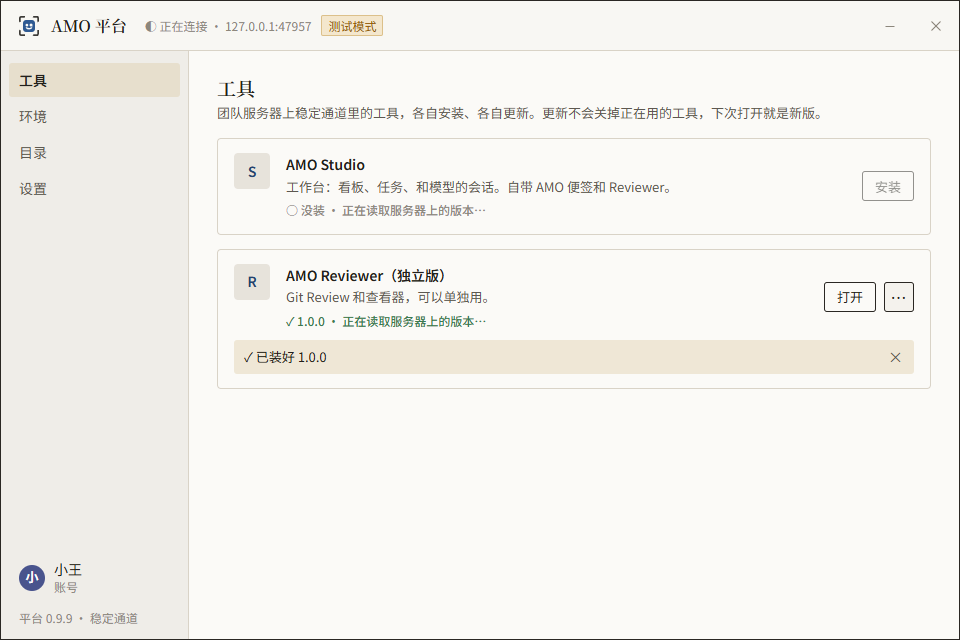
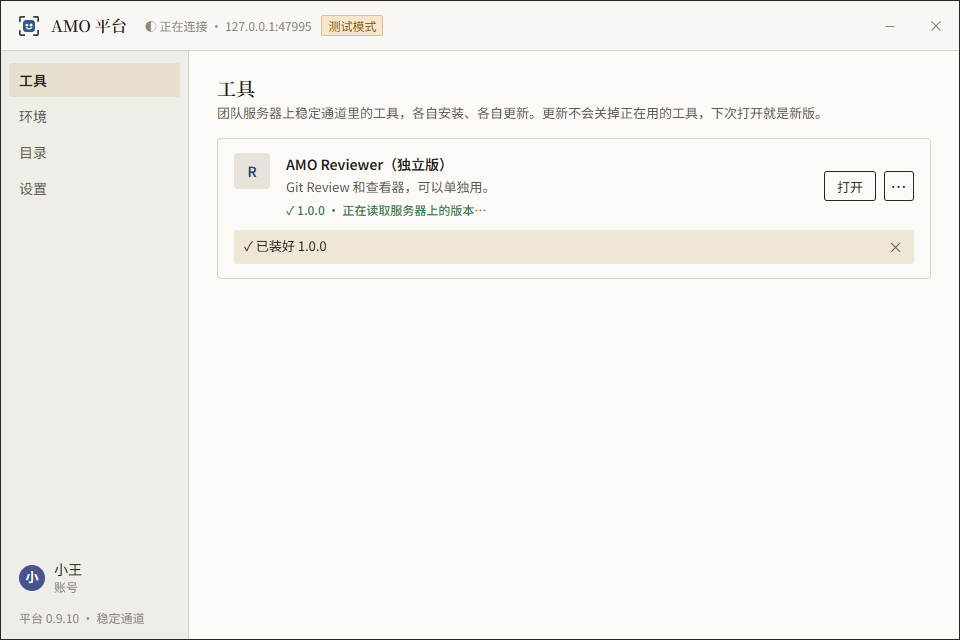
feat(studio): agents use the canvas only when asked, and then fully as before; 平台 0.9.11 refreshes in the background — Studio 0.9.13
- Studio: no prompt makes an agent reach for the canvas by itself (「要点多的审阅放到画布上」 gone from the AMO instructions, canvas_items_post no longer "instead of one long reply"); asked (「主控用画布展开任务」, 「放到画布上审阅」) it lays the work out as amo_guide's lead and canvas sections say — groups, dependencies, colours, descriptions, or review items with remarks and questions. Role cards: 主控 arranges the canvas when asked, 专题会话 tidies it when asked.
- 平台 0.9.11 (published to the test channel): with an answer in hand refresh() asks the server in the background — no 正在连接, 更新到 / 安装 stay usable, offline only when it fails; the window coming forward asks the server only after FOCUS_RECHECK_MS (60 s), what runs on the machine every time. e2e 正在连接 rewritten (P37 after a logout and login); a unit test. The platform e2e 「a second tool downloads only its own files」 fails at uninstall on the code before this too: left for later.
- CHANGELOGs, HANDOFF.

diff --git a/studio/packages/host/src/features/guide/guide.ts b/studio/packages/host/src/features/guide/guide.ts
@@ -29,13 +29,15 @@ const GUIDE: Record<GuideSection, string> = {
 - topic_doc_write：主控（或专题会话）写专题文档：新建（不带 docId）或改写（带 docId）。很专门的文档放在项目里，人会把它加到书签，专题文档里写上它的路径。`,
   canvas: `# 画布
 
+人让你用画布时（「用画布展开任务」「放到画布上审阅」……）才动它，动就做完整：分组、放卡片、依赖、颜色，或者审阅条目、说明和提问。人没说时不动；为了了解专题读它（canvas_read）随时可以。
+
 - canvas_read：专题画布的结构（没有坐标）：分组和里面的任务、引用卡片（别的专题的任务）、便签、未分组的、还没放上去的任务、依赖。带说明和颜色。
 - canvas_group_create：建一个分组（可绑定项目）。canvas_place：把任务放进分组或拿出来。canvas_depend：连依赖（from 做完 to 才开始，不能成环）。这三个每次要人批准。
 - canvas_color：给任务卡、引用卡、便签或分组标颜色（red / yellow / green / blue，none 取消）。颜色是什么意思由人定（状态、优先级……），不要随意改人标的颜色。
 
-## 画布审阅（要点多的审阅、调查报告）
+## 画布审阅（人让你把审阅或报告放到画布上时）
 
-一份有很多要点的报告（一批提交的审阅、一个复杂方案的梳理）不要只写在一条长回复里：人会在长对话里丢掉焦点。放到专题画布上，人一条条确认，你们围绕卡片交流。
+人没说时，审阅和报告照常写在回复里。
 
 1. canvas_items_post：一次铺多条**审阅条目**（#1、#2…），一份审阅一个分组（group 写分组标题）。每条：title 一行，body 写发现了什么、为什么重要、建议怎么做（Markdown），refs 写涉及的文件、提交。回复里只说一句「N 条已放到画布」和最要紧的一两点。
 2. canvas_callout：在卡片上**说明**（kind note：高亮这张卡，写要注意什么）或**提问**（kind question：等人回答；有几个现成答案时给 options，背景放 detail，问题复杂、要在对话里讲清楚时带 deep: true）。target 写 #n、任务 id（它的卡片）或 canvas_read 里的 id。文字一两句。
@@ -43,7 +45,7 @@ const GUIDE: Record<GuideSection, string> = {
 4. 人也会自己改状态，或者「就这条展开聊」：为一条单独开一个会话。在那个会话里聊出结论后，用 canvas_item_update 写回这一条。
 5. canvas_read 会列出条目（状态、结论）和还没收起的说明、问题、人的回答。
 
-执行任务的会话也可以用 canvas_callout 在**自己的任务卡片**上提问，人回答后同样回到你的对话。这些都不用人批准。`,
+人让执行任务的会话在**自己的任务卡片**上提问时，也用 canvas_callout，人回答后同样回到你的对话。这些都不用人批准。`,
   collab: `# 协作
 
 - mailbox_send：给一个会话、任务或专题留言；mailbox_read：读给你的留言。留言什么时候进对话由人决定。
@@ -56,7 +58,7 @@ const GUIDE: Record<GuideSection, string> = {
 
 1. 先读专题（topic_get、canvas_read、topic_docs），弄清目标。
 2. 把大的工作拆成平级的任务，每个任务在合适的项目里、有清楚的说明和能独立开工的第一句话：用 task_plan_propose 提案（每个任务可以用 model 和 effort 指定模型和思考强度，简单的活用便宜的型号或低强度）。人在画布上确认（可以改）后 Studio 才建任务、放上画布、连好依赖；结果作为留言回来（带新任务的 id）。
-3. 在画布上排好：分组、依赖、颜色；给每个任务写说明（task_describe）。
+3. 给每个任务写说明（task_describe）。人让你用画布展开时（大多会这样说），在画布上排好：按项目或阶段分组、连好依赖、需要时标颜色（canvas_group_create、canvas_place、canvas_depend、canvas_color）；人没说就不排。
 4. 把计划、约定、决定写进专题文档（topic_doc_write），别的任务的会话会读。
 5. 具体的活交给各任务的会话去做。要它们马上知道的（决定、计划改了、下一步）用 task_message 传话：人确认后（或任务设了不用确认）直接送进它的会话；不急的用 mailbox_send 留言。不要把重活都放进自己的子 agent 里——人只能和你对话，内容要多出一份。
 6. 分支和合并：人说开才开、说合才合。`,

diff --git a/studio/e2e/platform/platform.spec.ts b/studio/e2e/platform/platform.spec.ts
@@ -70,6 +70,7 @@ const result = (page: Page, id: string) => page.getByTestId(`tool-${id}-result`)
 const more = (page: Page, id: string) => row(page, id).getByRole("button", { name: "更多操作" });
 const menu = (page: Page, id: string) => row(page, id).getByRole("menu");
 const refresh = (page: Page) => page.evaluate(() => (window as unknown as { amoPlatform: { call(m: string, a: unknown[]): Promise<unknown> } }).amoPlatform.call("refresh", []));
+const call = (page: Page, method: string, args: unknown[] = []) => page.evaluate(([m, a]) => (window as unknown as { amoPlatform: { call(m: string, a: unknown[]): Promise<unknown> } }).amoPlatform.call(m, a), [method, args] as const);
 
 test("log in → install → a new version → update → 回滚 → 卸载; Studio waits for its data dir", async () => {
   const realHome = join(process.env.APPDATA ?? "", "AMO");
@@ -702,7 +703,7 @@ test("环境: what the tools run on, found where Studio looks; 去下载 opens t
   registry.close();
 });
 
-test("正在连接 (2026-10-30): the versions say they are being read, not the last answer; 安装 greyed with 正在连接服务器…; 打开 still works", async () => {
+test("正在连接 (2026-10-30): asked again with an answer in hand, in the background — nothing greys; only with nothing to show yet the versions say they are being read", async () => {
   const own = await startFakePlatformServer({ users: { 小王: "secret" }, gzip: true });
   try {
     own.publish("studio", "0.9.0", tool("studio", "0.9.0"), { name: "AMO Studio", exe: "run.cmd" });
@@ -715,17 +716,28 @@ test("正在连接 (2026-10-30): the versions say they are being read, not the l
     await form.getByRole("button", { name: "登录" }).click();
     await row(page, "reviewer").getByRole("button", { name: "安装" }).click();
     await expect(status(page, "reviewer")).toHaveText("✓ 1.0.0 · 已是最新");
+    const install = row(page, "studio").getByRole("button", { name: "安装" });
 
-    // A new version on the server, and the platform asks again while the server is slow to answer.
+    // A new version on the server, asked again while the server is slow to answer (as when the window comes forward):
+    // the last answer stays and the buttons stay usable until the new one comes (the user, 2026-10-30).
     own.publish("reviewer", "1.1.0", tool("reviewer", "1.1.0"), { name: "AMO Reviewer", exe: "run.cmd" });
-    own.delayChannels(12_000);
+    own.delayChannels(8_000);
     const asking = refresh(page);
+    await page.waitForTimeout(1500);
+    await expect(page.getByTestId("pf-connection")).not.toContainText("正在连接");
+    await expect(status(page, "reviewer")).toHaveText("✓ 1.0.0 · 已是最新");
+    await expect(install).toBeEnabled();
+    await expect(status(page, "reviewer")).toHaveText("! 1.0.0 · 有新版 1.1.0", { timeout: 30_000 });
+    await asking;
+
+    // Nothing to show yet (logged out and in again while the server is slow): 正在连接, the versions being read.
+    await call(page, "logout");
+    own.delayChannels(12_000);
+    const login = call(page, "login", [own.url, "小王", "secret"]);
     await expect(page.getByTestId("pf-connection")).toContainText("正在连接");
     await expect(status(page, "reviewer")).toHaveText("✓ 1.0.0 · 正在读取服务器上的版本…");
-    await expect(status(page, "studio")).toHaveText("○ 没装 · 正在读取服务器上的版本…");
-    const install = row(page, "studio").getByRole("button", { name: "安装" });
-    await expect(install).toBeDisabled();
-    await expect(install).toHaveAttribute("title", "正在连接服务器…");
+    // What is not installed comes with the server's answer.
+    await expect(row(page, "studio")).toHaveCount(0);
     // This machine's own: not held up by the server.
     await expect(row(page, "reviewer").getByRole("button", { name: "打开" })).toBeEnabled();
     await screenshot(app, "platform", "P37-connecting", page);
@@ -733,7 +745,7 @@ test("正在连接 (2026-10-30): the versions say they are being read, not the l
     await expect(status(page, "reviewer")).toHaveText("! 1.0.0 · 有新版 1.1.0", { timeout: 30_000 });
     await expect(install).toBeEnabled();
     await expect(install).not.toHaveAttribute("title", /.+/);
-    await asking;
+    await login;
   } finally {
     await own.close();
   }

diff --git a/studio/packages/platform/src/platform.ts b/studio/packages/platform/src/platform.ts
@@ -70,6 +70,8 @@ export interface PlatformOptions {
 
 /** How long 重启 Studio waits for the old Studio and its Host to end (closing sessions and app-servers takes a moment). */
 const STUDIO_STOP_WAIT_MS = 60_000;
+/** Coming forward asks the server again only after this long (what runs on the machine is asked every time). */
+export const FOCUS_RECHECK_MS = 60_000;
 
 const message = (err: unknown) => (err instanceof Error ? err.message : String(err));
 
@@ -80,6 +82,8 @@ export class Platform implements PlatformCalls {
   private channels: Channels | null = null;
   private readonly manifests = new Map<string, Manifest>();
   private connection: PlatformView["connection"] = { state: "idle", message: null };
+  /** When the server last answered the channels (0: not since the login or the start). */
+  private lastServerCheck = 0;
   private running: Record<string, boolean> = {};
   private studio: StudioHealth = { hostUp: false, sessions: null, version: null };
   /** 重启 Studio is under way. */
@@ -413,8 +417,13 @@ export class Platform implements PlatformCalls {
     return Object.fromEntries(ids.map((id, i) => [id, inUse[i] === true]));
   }
 
-  /** Asks the server for the channels and their manifests, and the machine which tools run. */
-  async refresh(): Promise<void> {
+  /**
+   * Asks the server for the channels and their manifests, and the machine which tools run. 2026-10-30 (the user: every
+   * time the window came forward it read 正在连接 and 更新到 went grey): with an answer already in hand it asks again in
+   * the background — the page keeps the last answer, its buttons usable, until a new one comes or the server fails —
+   * and `focus` (the window coming forward) asks the server only when the last answer is older than FOCUS_RECHECK_MS.
+   */
+  async refresh(opts: { focus?: boolean } = {}): Promise<void> {
     const local = async () => {
       const ids = this.toolIds();
       const [running, studio] = await Promise.all([this.checkRunning(ids), studioHealth(readSettings(this.options.env).studioDataDir, this.options.fetch)]);
@@ -427,7 +436,13 @@ export class Platform implements PlatformCalls {
       this.changed();
       return;
     }
-    this.connection = { state: "checking", message: null };
+    if (opts.focus === true && this.channels && this.connection.state === "online" && Date.now() - this.lastServerCheck < FOCUS_RECHECK_MS) {
+      await local();
+      this.changed();
+      return;
+    }
+    // 正在连接 only while there is nothing to show yet (the first time, after a login, or after it failed).
+    if (!this.channels || this.connection.state !== "online") this.connection = { state: "checking", message: null };
     // The profile (账号, and the face at the foot of the pages) alongside; its failure does not stop the tools.
     const profile = this.account ? this.readProfile(this.account) : null;
     this.changed();
@@ -448,6 +463,7 @@ export class Platform implements PlatformCalls {
       if (this.client !== client) return;
       this.channels = channels;
       this.connection = { state: "online", message: null };
+      this.lastServerCheck = Date.now();
     } catch (err) {
       if (this.client !== client) return;
       const text = this.failed(err);

diff --git a/studio/packages/host/src/mcp/tools.ts b/studio/packages/host/src/mcp/tools.ts
@@ -23,7 +23,9 @@ export const AMO_MCP_INSTRUCTIONS = [
   // 2026-10-22: an agent's xargs -P 12 burst and a grep -r over a big checkout made the person's desktop lag.
   "The person works on this same machine while you run, often with several agents and big game projects open, so keep your commands light: do not fan out many processes at once (xargs -P, parallel loops, more than a few background jobs), search with rg or git grep limited to the folders that matter instead of grep -r over a whole checkout or drive, and cap test runners' workers (for example vitest --maxWorkers=4, dotnet test -m:2) unless the person asks for speed.",
   "Your role card (who you are, your task, topic, its 主控 and documents) is given to you when the session starts; when you do not have it, or need the current one, call amo_whoami. amo_guide explains each part (tasks, topics, canvas, collab, lead, files). Writes that touch other tasks or the canvas's structure ask the person first; your own task's notes, descriptions and colour marks do not.",
-  "A report or review with many points (a batch of commits, an involved design) goes on your topic's canvas as review items (canvas_items_post), with remarks and questions pinned to the cards (canvas_callout), rather than in one long reply the person loses track of; amo_guide section canvas explains the flow.",
+  // 2026-10-30 (the user): agents do not reach for the canvas on their own; once the person asks (「用画布展开任务」,
+  // 「放到画布上审阅」) they do it fully, as before. Reading it stays.
+  "Use your topic's canvas when the person asks for it — e.g. to lay the work out on the canvas, or to put a review there — and then do it fully, in the way amo_guide describes (sections lead and canvas): split the work into tasks, arrange groups, dependencies and colours, describe each task; or lay review items out and pin remarks and questions. Without such a request leave the canvas as it is (reading it with canvas_read to understand the topic is fine), and reports and reviews go in your reply as usual.",
   "When the person wants to review a file or saved changes, use review_open: mode=file for its current content (optional line/endLine), mode=changes for its Git diff (optional base, commit or range). It opens the person's reviewer and defaults comments back to your session; it does not perform or approve a review. Save edits before reopening to show the latest content.",
   // 会话里用中转 (2026-10-30, plans/relay-in-sessions.md).
   "When the work needs someone on the team other than the person you work for — a programmer to confirm an implementation, an interface or the work it takes, or to check a plan — ask them with team_ask (AMO 中转; team_members lists who does what). It usually waits for the person's OK in Studio (the answer says), goes as the person marked as their AI's, and the reply comes back into this conversation by itself: end your turn after it instead of going on in the unconfirmed direction; then team_followup to ask again, team_done once settled. (task_message is different: it talks to another task's session inside Studio.)",

diff --git a/studio/packages/host/src/features/guide/role.ts b/studio/packages/host/src/features/guide/role.ts
@@ -52,10 +52,10 @@ const ROLE_NAME: Record<AmoRole, string> = { lead: "主控", worker: "执行", t
 
 const ROLE_DUTY: Record<AmoRole, string> = {
   lead:
-    "你是主控：负责协调这个专题（不在专题里时是这个项目）的任务。把大的工作拆成平级的任务、在画布上排好关系（canvas_*），给任务写说明（task_describe），把计划和决定写进专题文档（topic_doc_write）。具体的活交给各个任务的会话去做，让人可以直接和每个任务对话，要它们马上知道的用 task_message 传话；不要把重活都放进自己的子 agent 里。Studio 不替你建分支、不合并，人说开才开、说合才合。",
+    "你是主控：负责协调这个专题（不在专题里时是这个项目）的任务。把大的工作拆成平级的任务，给任务写说明（task_describe）；人让你用画布展开时，照 amo_guide 的 lead 一节在画布上排好分组和依赖（canvas_*），人没说就不动画布，把计划和决定写进专题文档（topic_doc_write）。具体的活交给各个任务的会话去做，让人可以直接和每个任务对话，要它们马上知道的用 task_message 传话；不要把重活都放进自己的子 agent 里。Studio 不替你建分支、不合并，人说开才开、说合才合。",
   worker:
     "你是执行：专注做好自己的任务。平时不用主动记进度：人让你记时用 task_note_add，一段工作要交给别的会话或人接手时用 handoff_submit。需要主控或别的任务知道的事用 mailbox_send；需要人拍板用 decision_request；本任务里要并行做一部分、或换个干净的上下文，可以用 session_start 再开一个会话。不要去改别的任务的内容。",
-  topic: "你是专题会话：从专题的角度看全局、整理画布、回答人的问题，和主控一样可以写专题文档、给任务写说明、标画布颜色。",
+  topic: "你是专题会话：从专题的角度看全局、回答人的问题，和主控一样可以写专题文档、给任务写说明；人让你整理画布时再整理画布、标颜色。",
   fork: "你是某个会话的分支：在原会话的基础上试另一条路，原会话不受影响。身份和原任务相同。",
 };
 

diff --git a/studio/packages/platform/src/platform.test.ts b/studio/packages/platform/src/platform.test.ts
@@ -8,7 +8,7 @@ import { listenInStudioRange, removeTempDir, startFakePlatformServer, type FakeP
 import { PlatformClient } from "./client.js";
 import { planLaunch, type LaunchSpec } from "./launch.js";
 import { trayMenu } from "./tray.js";
-import { Platform, type PlatformOptions } from "./platform.js";
+import { FOCUS_RECHECK_MS, Platform, type PlatformOptions } from "./platform.js";
 import { channelFromArgs } from "./settings.js";
 import { sessionCount, stopStudio, studioHealth, studioRestart, waitForExit, type StudioStop } from "./system.js";
 
@@ -86,6 +86,28 @@ describe("Platform", () => {
     expect(launched[0]!.file).toMatch(/\\0\.9\.0\\AMO Studio\.exe$/);
     expect(launched[0]!.env.AMO_STUDIO_DATA_DIR).toBe(data);
     expect(launched[0]!.env.ELECTRON_RUN_AS_NODE).toBeUndefined();
+  });
+
+  it("asked again with an answer in hand: in the background (never 正在连接); coming forward asks the server only after a minute (2026-10-30)", async () => {
+    const { platform } = make();
+    await platform.init();
+    await platform.login(server.url, "小王", "secret");
+    const states: string[] = [];
+    platform.onChange((v) => states.push(v.connection.state));
+    const asked = () => server.requests.filter((r) => r.includes("/channels")).length;
+    const before = asked();
+    await platform.refresh();
+    expect(asked()).toBe(before + 1);
+    expect(states).not.toContain("checking");
+    // Coming forward right after: what runs is read again, the server is not asked.
+    await platform.refresh({ focus: true });
+    expect(asked()).toBe(before + 1);
+    expect(platform.view().connection.state).toBe("online");
+    // A minute on, it is.
+    (platform as unknown as { lastServerCheck: number }).lastServerCheck -= FOCUS_RECHECK_MS + 1;
+    await platform.refresh({ focus: true });
+    expect(asked()).toBe(before + 2);
+    expect(states).not.toContain("checking");
   });
 
   it("an update while the tool runs is installed all the same and says it takes effect next time", async () => {

diff --git a/studio/packages/host/src/features/canvasreview/mcp.ts b/studio/packages/host/src/features/canvasreview/mcp.ts
@@ -10,7 +10,7 @@ export function canvasReviewTools({ service, caller, ownTopic }: ToolContext): A
       name: "canvas_items_post",
       title: "画布铺审阅条目",
       description:
-        "Lay a review out on your topic's canvas as numbered item cards (#1, #2… continuing the canvas's numbers), instead of one long reply: each point a card the person can confirm, question or talk over on its own. group: an existing group (id or exact title) to add to, or the title of a new group (recommended: one group per review); omit to put them below everything. Each item: title (one line), body (Markdown: what you found, why it matters, what you suggest), refs (files, commits, links), status (todo by default; confirmed, discuss, parked, done). Studio lays them out. Then use canvas_callout to highlight or ask on the items.",
+        "When the person asks for a review on the canvas: lay it out on your topic's canvas as numbered item cards (#1, #2… continuing the canvas's numbers), each point a card the person can confirm, question or talk over on its own. group: an existing group (id or exact title) to add to, or the title of a new group (recommended: one group per review); omit to put them below everything. Each item: title (one line), body (Markdown: what you found, why it matters, what you suggest), refs (files, commits, links), status (todo by default; confirmed, discuss, parked, done). Studio lays them out. Then use canvas_callout to highlight or ask on the items.",
       inputSchema: {
         group: z.string().optional(),
         items: z.array(z.object({ title: z.string(), body: z.string().optional(), refs: z.array(z.string()).optional(), status: STATUS.optional() })),

diff --git a/studio/packages/platform/src/main.ts b/studio/packages/platform/src/main.ts
@@ -175,8 +175,8 @@ function createWindow(): BrowserWindow {
       w.webContents.toggleDevTools();
     }
   });
-  // Coming forward: what runs may have changed (a tool closed, Studio's sessions).
-  w.on("focus", () => void platform.refresh());
+  // Coming forward: what runs may have changed (a tool closed, Studio's sessions); the server only now and then.
+  w.on("focus", () => void platform.refresh({ focus: true }));
   // Studio's card (2026-10-29: its Host's state, and whether 重启 Studio can be clicked): asked again every 10 s while the
   // window is shown — only the Host's /api/health, not the server or Windows' process list.
   const studioTimer = setInterval(() => {

diff --git a/studio/HANDOFF.md b/studio/HANDOFF.md
@@ -47,6 +47,17 @@
 
 ## 最近的改动（新的在上面）
 
+**2026-10-30 · AI 不要求就不用画布（测试通道 Studio 0.9.13）**
+
+- 用户 10-30：人不要求时 AI 不用画布；人说了（「主控用画布展开任务」「放到画布上审阅」）就照以前一样做完整。改了：`AMO_MCP_INSTRUCTIONS` 删掉「要点多的报告放画布」，换成「人要求时用画布并做完整（见 amo_guide lead、canvas），没要求不动，读可以」；角色卡主控职责写「人让你用画布展开时照 lead 一节排好分组和依赖，没说不动」，专题会话「人让你整理画布时再整理、标颜色」；`amo_guide` canvas 一节开头写明这个前提，画布审阅改成「人让你放到画布上时」，lead 第 3 步「人让你用画布展开时排好分组、依赖、颜色」；`canvas_items_post` 的说明去掉「instead of one long reply」。
+- 测试：typecheck；guide、mcp、canvasreview、codex 的单测过（`server-manager` 一条在负载下超时，单独重跑过）。
+
+**2026-10-30 · 平台 0.9.11：切回前台不再闪「正在连接」（测试通道已发）**
+
+- 用户 10-30：平台每次切回前台都显示「正在连接」，「更新到」跟着变灰。原因是 `refresh()` 一开始总把连接设成 `checking`，0.9.10 起 `checking` 时安装、更新灰着。改成：已有通道信息且在线时后台刷新（不进 `checking`，失败才变 offline）；`refresh({ focus: true })`（`main.ts` 的窗口 focus）距上次服务器回答不到 `FOCUS_RECHECK_MS`（60 秒）只查本机在运行的工具。「刷新」、登录、装完照常立刻问。
+- 测试：平台单测加一条（后台刷新不出 checking、切回前台 1 分钟内不问服务器），67 条过。e2e「正在连接」改成：在线时刷新按钮不灰；登出再登录（没有通道信息）才出「正在连接」，截图 `P37-connecting` 更新。平台 e2e（放宽到 30 秒）这条和登录→更新→卸载那条过；「第二个工具只下载自己的文件」卡在卸载那一步，换回提交前的代码一样失败，是原有问题，待查。
+- `packages/platform` 0.9.11，CHANGELOG 写了；`release/` 里已打好包。`relay:mac -- publish platform` 被自动审批拦下（生产部署），用户自己跑的：0.9.11 进了测试通道，删了 0.9.8。试过后 `npm run relay:mac -- promote platform 0.9.11`。
+
 **2026-10-30 · 远程默认关闭；中转发送可以不用确认（`634b77c`；测试通道 Studio 0.9.12）**
 
 - 用户 10-30：远程默认关，要手动打开；只开 Studio、没在平台登录时也是关的，而且打不开。做法：Host 的 kv `remote.enabled` 记「为哪个账号（server + name）打开的」，当前登录的不是它就是关（换账号登录又是关的）。关着时 `RemoteState.connection.state = "disabled"`、`enabled: false`，不建 `DeviceLink`，配对、授权、远程设置都保留；`requireStarted` 报「远程功能没有打开」。`PUT /api/remote/enabled`（打开要有登录，会等正在读的 account.json）。`teamLogin()` 不受开关影响：中转只是借用同一个登录。界面：远程弹窗关着时显示「远程功能没有打开」+「打开远程功能」（没登录时按钮灰着）；关在 远程设置 最下面；顶栏写「远程 · 关」；授权弹窗、新任务页的「在别的设备上」、远程任务卡跟着变。**以前用过远程的人更新后要重新打开一次**（CHANGELOG 写了）。

diff --git a/studio/packages/app/CHANGELOG.md b/studio/packages/app/CHANGELOG.md
@@ -2,6 +2,10 @@
 
 每个版本一节，标题写 `## 版本号（日期）`。发布到团队服务器时（`npm run relay:mac -- publish studio`），这一节就是平台上显示的改动说明。
 
+## 0.9.13（2026-10-30）
+
+- AI 不再自己决定用画布：你说了（比如「主控用画布展开任务」「放到画布上审阅」）它才用，用的时候照以前一样排好分组、依赖、颜色，或者铺好审阅条目；你没说就不动画布，审阅和报告照常写在回复里。之后新开的会话生效。
+
 ## 0.9.12（2026-10-30）
 
 - 会话里能直接用 AMO 中转找人确认了：AI 遇到要程序把关的事（实现方式、接口、工作量），会写好正文和问题，在任务页和 Focus 里等你点「发送」（自动审批模式下也要你点），发出时用你的账号、标着「AI 代发」。对方在中转里回复后，回复自动回到原来的会话、开新一轮接着做，不用再复制粘贴；还没问清楚 AI 会接着追问（同样先问你），敲定了就收尾。看板卡片和任务页上写着「等 X 回复（中转）· 已等多久」。要先在 AMO 平台里登录，中转服务也要更新。不想每次都点，可以在 设置 → 功能 → 中转 里勾「AI 找人确认时直接发出，不用先问我」（默认不勾）。

diff --git a/studio/packages/platform/CHANGELOG.md b/studio/packages/platform/CHANGELOG.md
@@ -1,5 +1,9 @@
 # AMO 平台 改动说明
 
+## 0.9.11（2026-10-30）
+
+- 窗口切回前台时不再每次都显示「正在连接」、把「更新到」「安装」变灰：已经连上过的话，在后台重新问服务器，期间照旧显示上次的结果、按钮照常能点，问到了再换成新的，连不上才改成连不上。切回前台时距上次问服务器不到 1 分钟就不再问（本机哪些工具在运行照样每次都查）；点「刷新」照常立刻问。「正在连接」只在刚打开、刚登录、之前连不上时出现。
+
 ## 0.9.10（2026-10-30）
 
 - 正在连接服务器时，「工具」页每个工具的状态写「正在读取服务器上的版本…」，不再显示上一次的结果（刚打开平台时已装的工具会误写「这个通道里没有它」）。这时「安装」「更新」灰着，鼠标停上去写「正在连接服务器…」；「打开」「关闭」「回到上个版本」「卸载」照常能用。
